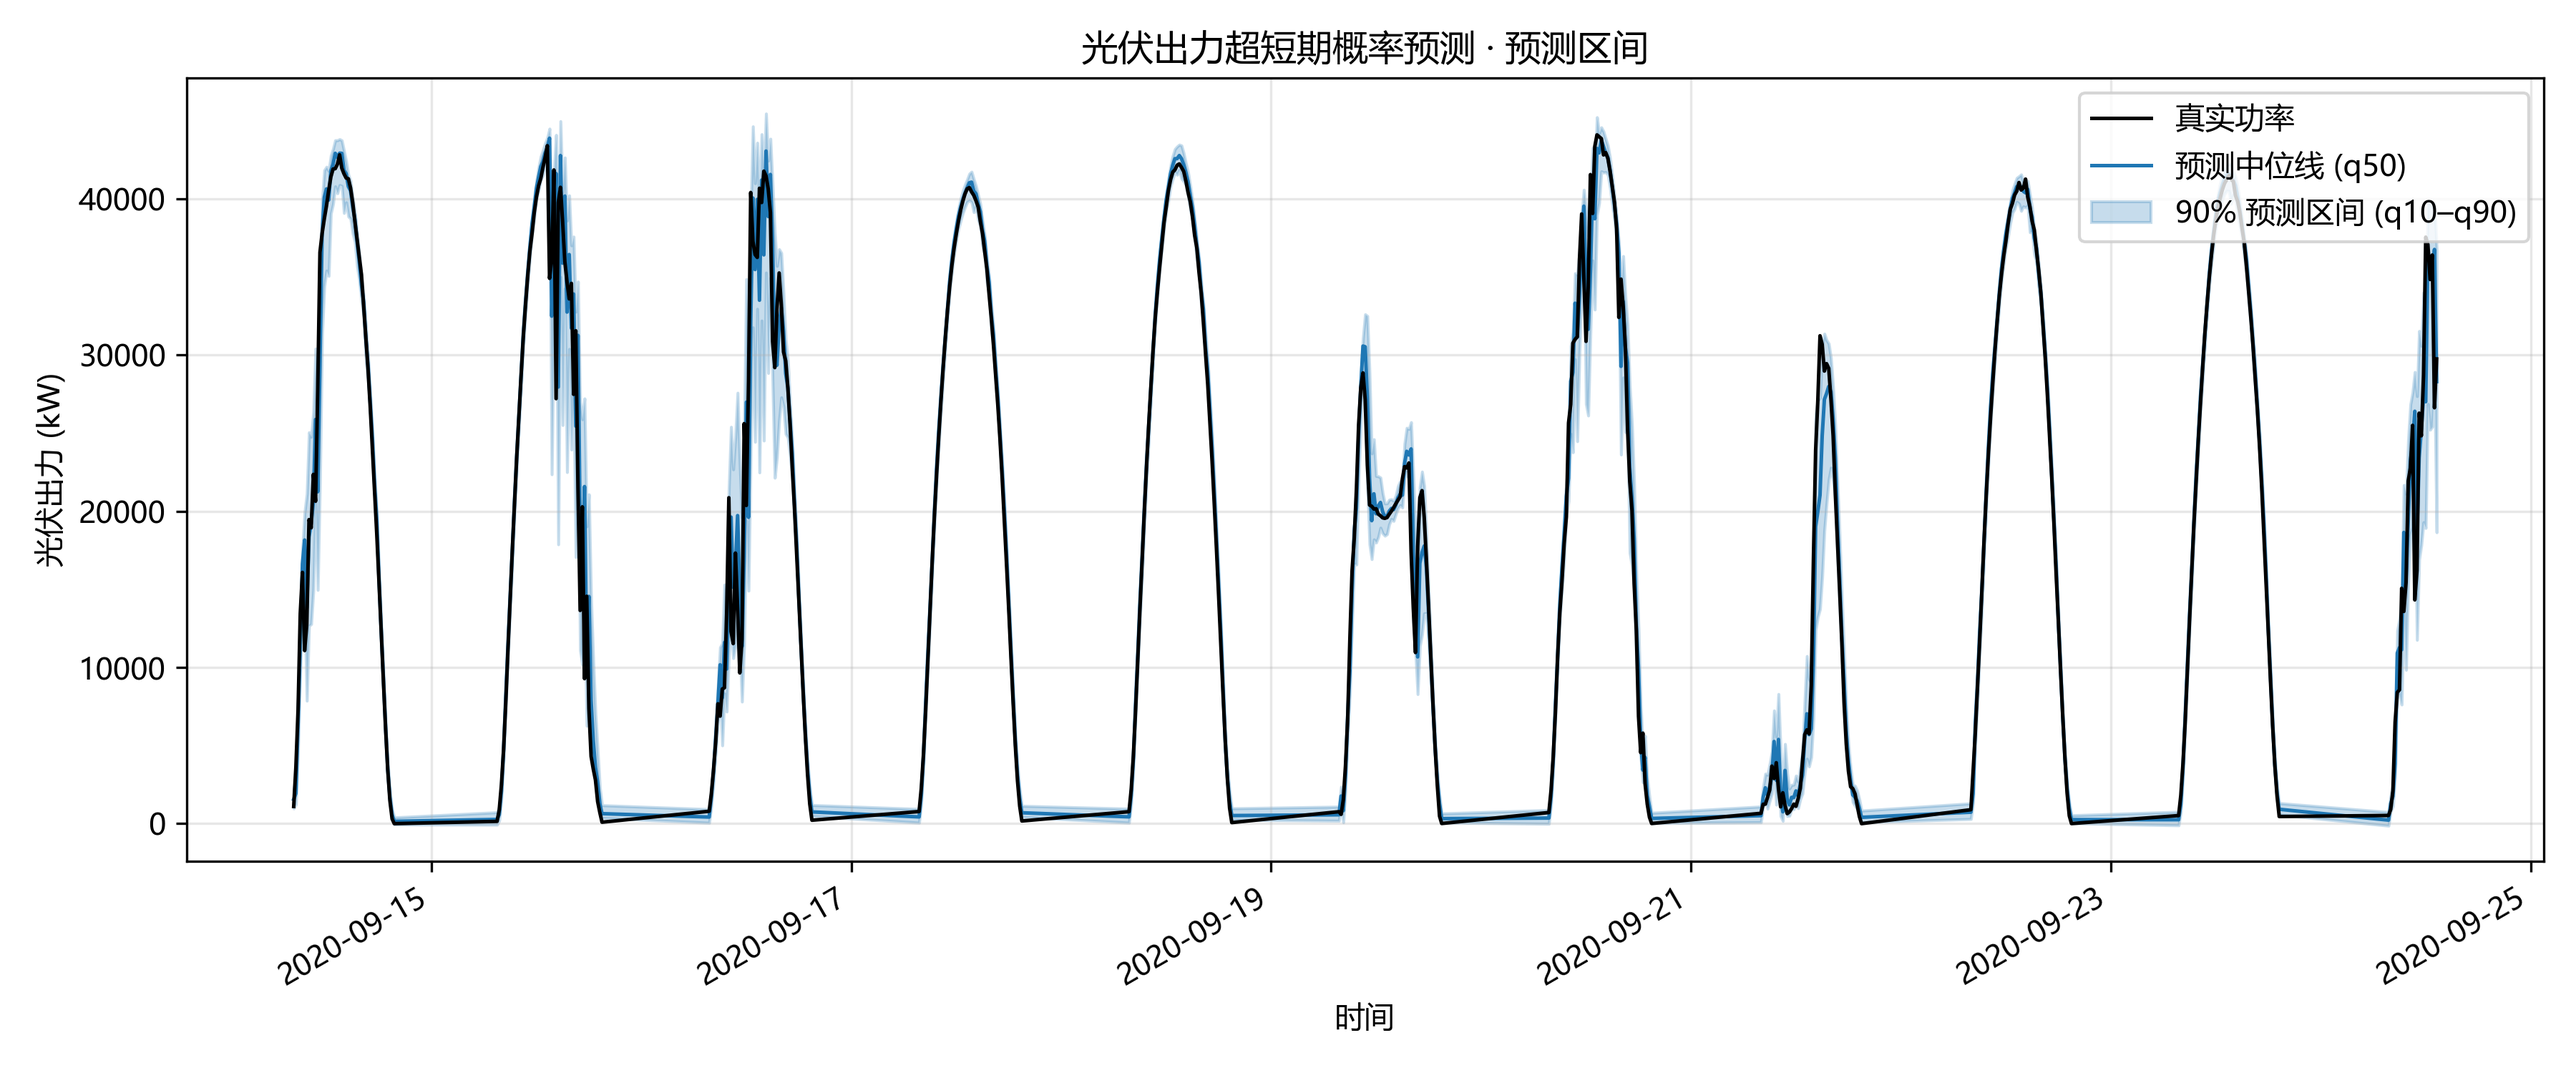
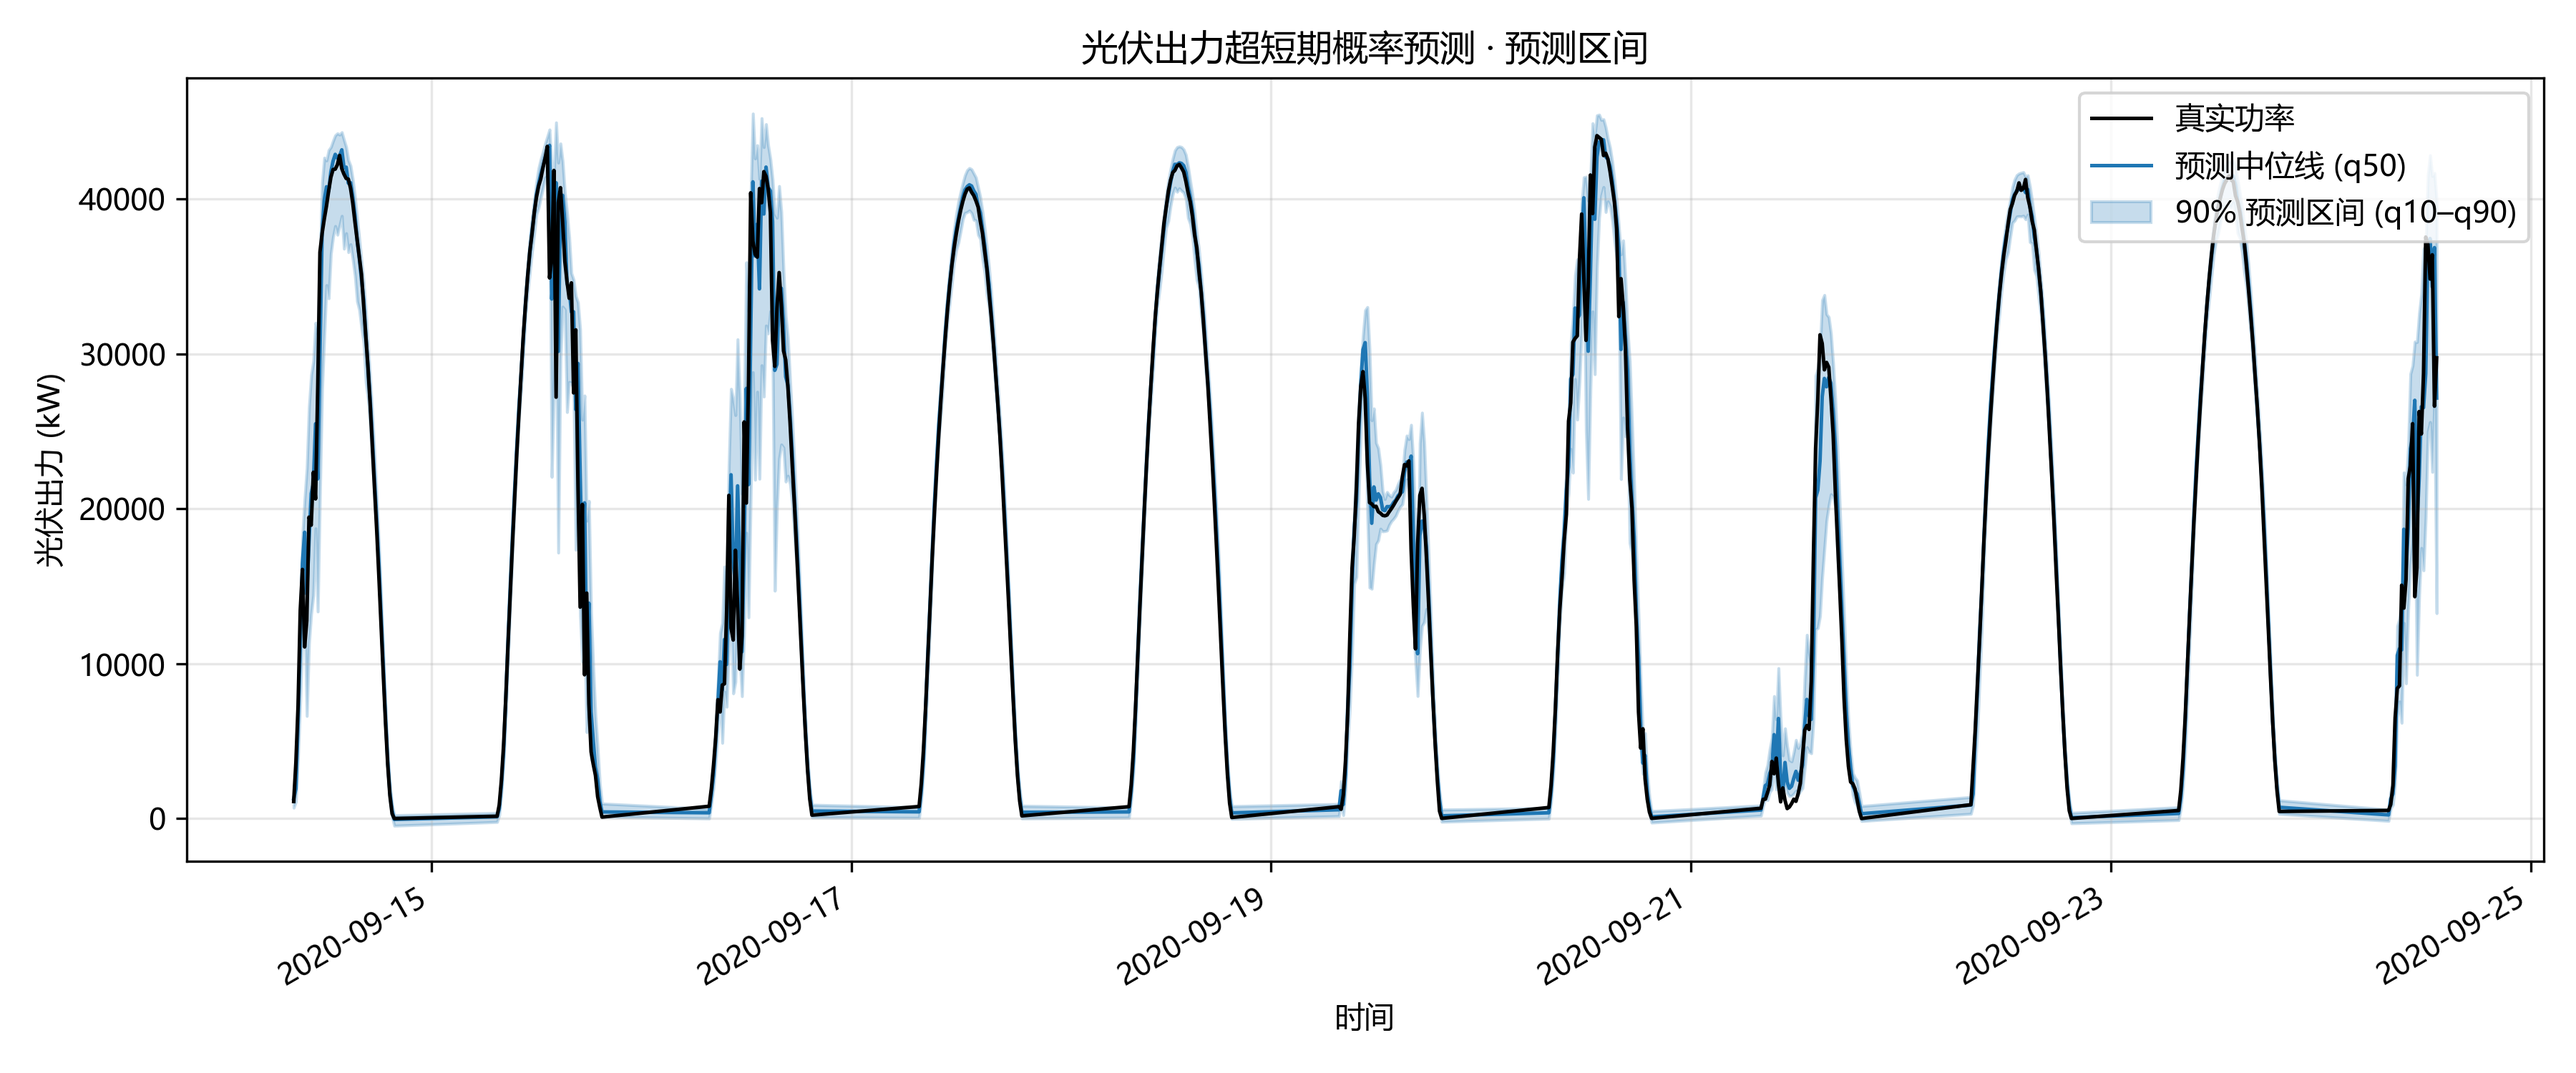
优化：湿度异常清洗 + 11分位数（PICP 0.81→0.87，CRPS 246→80）

diff --git a/data/preprocess.py b/data/preprocess.py
@@ -174,11 +174,27 @@ def add_time_features(df):
     return df
 
 
+# 各特征物理合理范围：超出视为异常/缺失，先置 NaN 再插值。
+# 用于清掉国家电网数据里 9.6% 的湿度哨兵值(6553)等坏值，避免污染归一化。
+PHYSICAL_RANGE = {
+    "IRRADIATION": (0.0, 1500.0),
+    "GHI": (0.0, 1500.0),
+    "DNI": (0.0, 1500.0),
+    "AMBIENT_TEMPERATURE": (-60.0, 60.0),
+    "HUMIDITY": (0.0, 100.0),
+    "PRESSURE": (500.0, 1100.0),
+}
+
+
 def clean(df):
-    """清洗：去重排序、补全等间隔时间轴、处理负值与突刺。"""
+    """清洗：去重排序、补全等间隔时间轴、物理范围约束、处理负值与突刺。"""
     df = df[~df.index.duplicated(keep="first")].sort_index()
     # 建立等间隔时间轴，缺失的时间步会变成 NaN
     df = df.resample("{}min".format(config.TIME_STEP_MIN)).asfreq()
+    # 物理范围约束：明显不合理的值置 NaN（如湿度>100%、气压<500hPa），随后插值补齐
+    for col, (lo, hi) in PHYSICAL_RANGE.items():
+        if col in df.columns:
+            df[col] = df[col].where((df[col] >= lo) & (df[col] <= hi))
     # 线性插值补缺失，首尾用前后向填充兜底
     df = df.interpolate(method="linear", limit_direction="both").ffill().bfill()
 

diff --git a/config.py b/config.py
@@ -87,7 +87,7 @@ MODEL_TYPE = "lstm"           # 骨干网络："lstm" 或 "gru"
 HIDDEN_SIZE = 64
 NUM_LAYERS = 2
 DROPOUT = 0.1
-QUANTILES = [0.1, 0.5, 0.9]   # 分位数回归输出的分位点（可配置）
+QUANTILES = [0.05, 0.1, 0.2, 0.3, 0.4, 0.5, 0.6, 0.7, 0.8, 0.9, 0.95]  # 11 个分位数，更细分布，服务 DRO 模糊集
 NUM_QUANTILES = len(QUANTILES)
 
 # ============================================================

diff --git a/README.md b/README.md
@@ -124,15 +124,15 @@ kaggle datasets download -d anikannal/solarpowergeneration -p data/raw --unzip
 
 | 模型 | RMSE (MW) | MAE (MW) | nRMSE | PICP (90%) | PINAW |
 |---|---|---|---|---|---|
-| 点预测 LSTM | 2.285 | 1.301 | 0.0505 | — | — |
-| 分位数回归 LSTM（q50） | 2.297 | 1.228 | 0.0508 | **0.8095** | **0.0831** |
+| 点预测 LSTM | 2.289 | 1.299 | 0.0506 | — | — |
+| 分位数回归 LSTM（q50，11 分位数） | 2.259 | 1.240 | 0.0500 | **0.8668** | **0.1114** |
 
-> 目标为 50 MW 光伏站，RMSE ≈ 2.3 MW ≈ 容量的 4.6%。对"仅用本地气象、15 分钟超短期、无数值天气预报（NWP）"的设定，这是合理水平；加入 NWP 或云图后可进一步降低。
+> 目标为 50 MW 光伏站，RMSE ≈ 2.26 MW ≈ 容量的 4.5%。对"仅用本地气象、15 分钟超短期、无数值天气预报（NWP）"的设定，这是合理水平；加入 NWP 或云图后可进一步降低。数据已含清洗（湿度异常剔除）。
 
 **指标怎么读**：
-- **PICP = 区间覆盖率**：标称 90% 的区间实际覆盖 81.0%，**略低于标称**——说明区间略微"过自信"（偏窄）。这是真实光伏数据的正常现象（云团遮挡的不确定性远大于合成数据），可通过增加分位数（如 9 个）、或对区间做事后校准来改善。这个"略欠覆盖"本身就是一个诚实的、可说清的实验结果。
-- **PINAW = 归一化区间宽度**：0.083 意味着平均区间宽度约为目标极差的 8.3%，区间仍较"紧"。
-- 两者一起看：PICP 接近标称且 PINAW 尽量小 = 又准又紧；PICP 明显偏低 = 区间太窄不可全信；PICP 很高但 PINAW 很大 = 区间太宽、无信息量。
+- **PICP = 区间覆盖率**：标称 90% 的区间实际覆盖 **86.7%**，已很接近标称——比 3 分位数时的 81.0% 明显改善：更多分位数让模型能更准确地刻画 q05/q95 尾部。
+- **PINAW = 归一化区间宽度**：0.111，平均区间宽度约为目标极差的 11%，松紧适中。比之前的 8.3% 略宽，这是"覆盖够"的必要代价（之前的 81% 覆盖其实是区间过窄、过自信）。
+- 两者一起看：PICP 接近标称且 PINAW 合理 = 又准又紧；PICP 明显偏低 = 区间太窄不可全信；PICP 很高但 PINAW 很大 = 区间太宽、无信息量。
 
 ---
 
